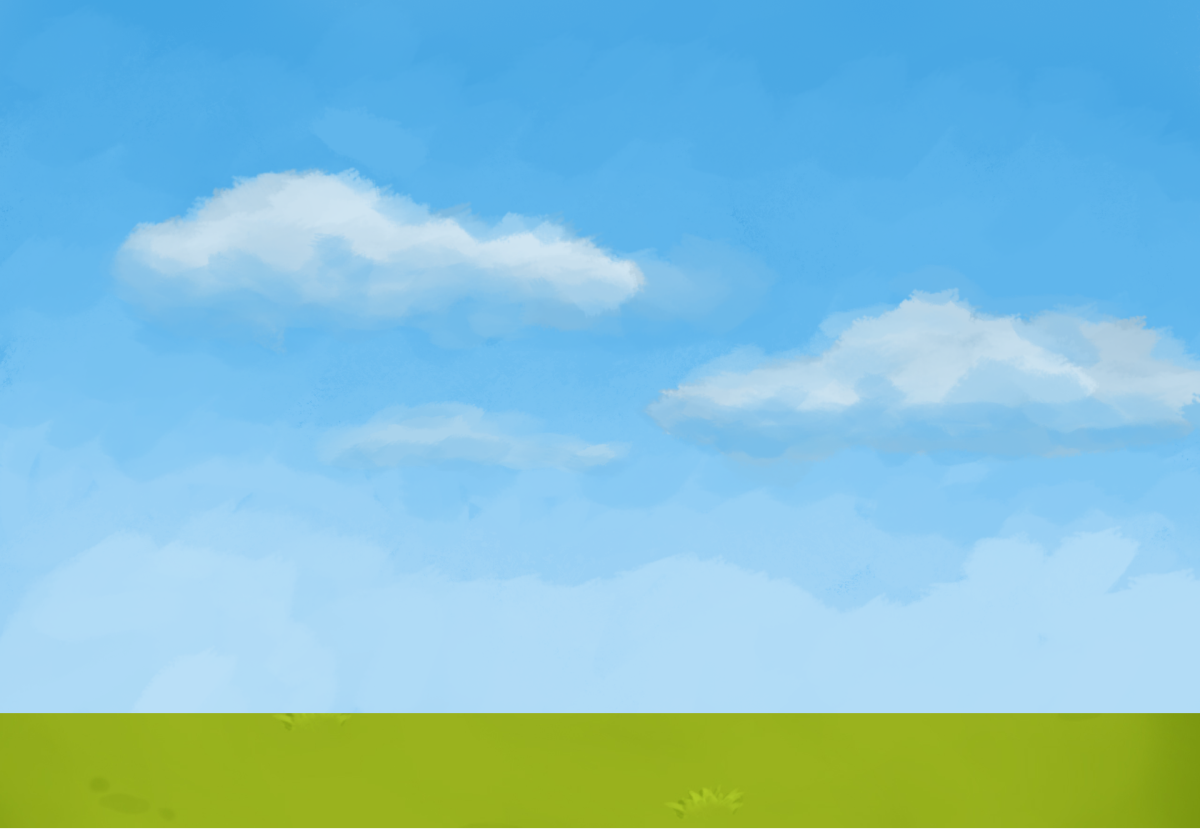
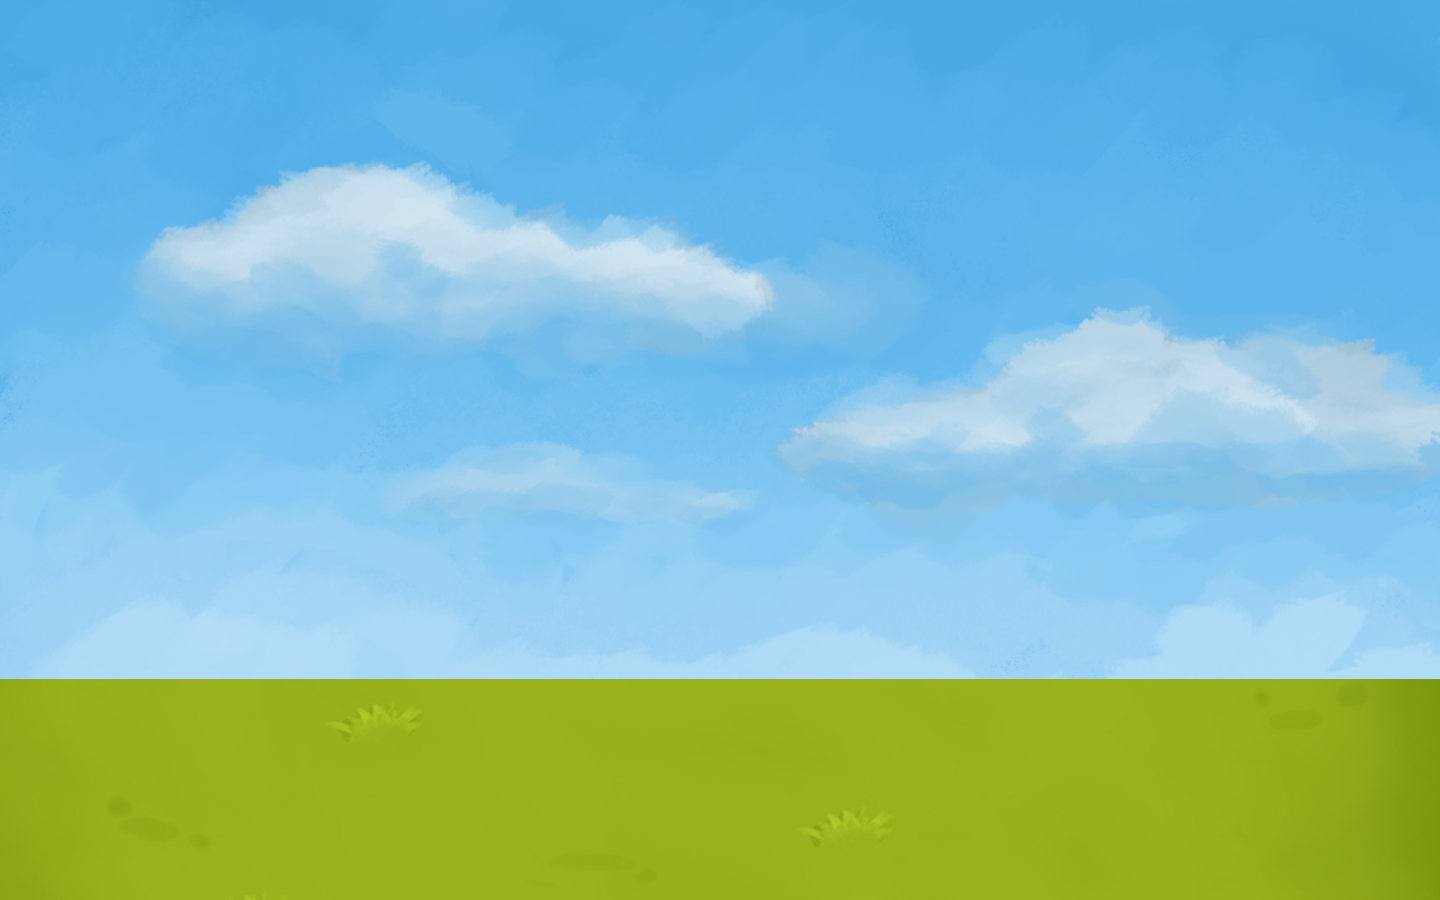
background issues fixed

diff --git a/public/assets/css/home.css b/public/assets/css/home.css
@@ -6,25 +6,12 @@ nav {
     justify-content: space-between ;
 }
 
-@media only screen and (min-width : 530px) {
-
-    nav {
-        justify-content: flex-end;
-    }
-}
-
 .questionmark-button, .music-button {
     width: 2.5em;
     height: 2.5em;
     border: solid var(--background-nbScore);
     border-radius: 0.6em;
     background-color: var(--background-buttons);
-}
-
-@media only screen and (min-width : 530px) {
-    .questionmark-button {
-        margin-right: 1.5em;
-    }
 }
 
 .questionmark-icon {
@@ -35,6 +22,7 @@ nav {
     padding: 0.5em 0.2em 0.2em 0.5em;
 }
 
+/*background for mobile, portrait*/
 body {
     background-image: url("/assets/images/mobile/home_background.png");
     height: 100vh;
@@ -43,29 +31,12 @@ body {
     margin: 0;
 }
 
-@media only screen and (min-width : 530px) {
-    
-    body {
-        background-image: url("/assets/images/desktop/home_background.png");
-        background-size: cover;
-    }
-}
-
 main {
     display: grid;
     height: 90vh;
-    grid-template-areas: "castle castle" "defend-button tutorial-button" "logo logo";
+    grid-template-areas: "castle castle" "defend-button tutorial-button" "logo logo" "camp camp";
     grid-template-columns: 1fr 1fr;
     grid-template-rows: 6fr 1fr 2fr;
-}
-
-@media only screen and (min-width : 530px) {
-    
-    main {
-        grid-template-areas: "logo logo" "castle defend-button" "castle tutorial-button" "castle camp";
-        grid-template-columns: 1fr 1fr;
-        grid-template-rows: 2fr 1fr 1fr 3fr;
-    }
 }
 
 .castle {
@@ -74,35 +45,14 @@ main {
     align-self:flex-end;
     max-width: 100%;
     height: auto;
-
-}
-
-@media only screen and (min-width : 530px) {
-    .castle {
-        margin-right: 3em;
-        align-self: baseline;
-    }
 }
 
 .defend-button {
     grid-area: defend-button;
 }
 
-@media only screen and (min-width : 530px) {
-
-    .defend-button {
-        align-self: end ;
-    }
-}
-
 .tutorial-button {
     grid-area: tutorial-button;
-}
-
-@media only screen and (min-width : 530px) {
-    .tutorial-button {
-        align-self: center;
-    }
 }
 
 .defend-button, .tutorial-button {
@@ -117,16 +67,6 @@ main {
     padding: 0.4em 1em 0.2em 1em;
 }
 
-@media only screen and (min-width : 530px) {
-    .defend-button, .tutorial-button {
-        width: 8em;
-    }
-
-    .defend-button {
-        align-self: flex-end;
-    }
-}
-
 .defend-button a, .tutorial-button a {
     text-decoration: none;
     color: var(--dark-text);
@@ -139,21 +79,7 @@ main {
     place-self: center;
 }
 
+/*camp is displayed only for tablet portrait mode and desktop*/
 .camp {
-    display: none;;
-}
-
-@media only screen and (min-width : 530px) {
-    .camp {
-        grid-area: camp;
-        display: contents;
-        align-content: center;
-
-    }
-    
-    .camp img {
-        margin-top: 5em;
-        margin: auto 5em auto 5em;
-    
-    }
+    display: none;
 }

diff --git a/public/assets/css/home_tablet_and_desktop.css b/public/assets/css/home_tablet_and_desktop.css
@@ -1,0 +1,59 @@
+/*background for tablet, portrait*/
+@media only screen and (min-width : 480px) and (max-width: 811px) {
+    
+    body {
+        background-image: url("/assets/images/tablet/home_background_portrait.png");
+    }
+}
+
+@media only screen and (min-width : 812px) {
+    /*background for tablet landscape and desktop*/
+    body {
+        background-image: url("/assets/images/desktop/home_background.png");
+    }
+    /*change buttons position in nav bar for tablet landscape and desktop*/
+    nav {
+        justify-content: flex-end;
+    }
+    .questionmark-button {
+        margin-right: 1.5em;
+    }
+    /*layout for tablet landscape and desktop*/
+    main {
+        grid-template-areas: "logo logo" "castle defend-button" "castle tutorial-button" "castle camp";
+        grid-template-columns: 1fr 1fr;
+        grid-template-rows: 2fr 1fr 1fr 3fr;
+    }
+
+    .defend-button {
+        align-self: flex-end;
+        width: 8em;
+    }
+
+    .tutorial-button {
+        align-self: center;
+        width: 8em;
+    }
+}
+/*camp is displayed only for tablet landscape and desktop*/
+@media only screen and (min-width : 916px) {
+    .camp {
+        grid-area: camp;
+        display: block;
+    }
+
+}
+
+/*castle position for tablet landscape*/
+@media only screen and (min-width : 480px) and (max-width: 812px){
+    .castle {
+        margin-top: 16em;
+    }
+}
+
+/*castle size for mobile landscape*/
+@media only screen and (min-width : 812px) and (max-width: 915px){
+    .castle picture {
+        height: fit-content;
+    }
+}
